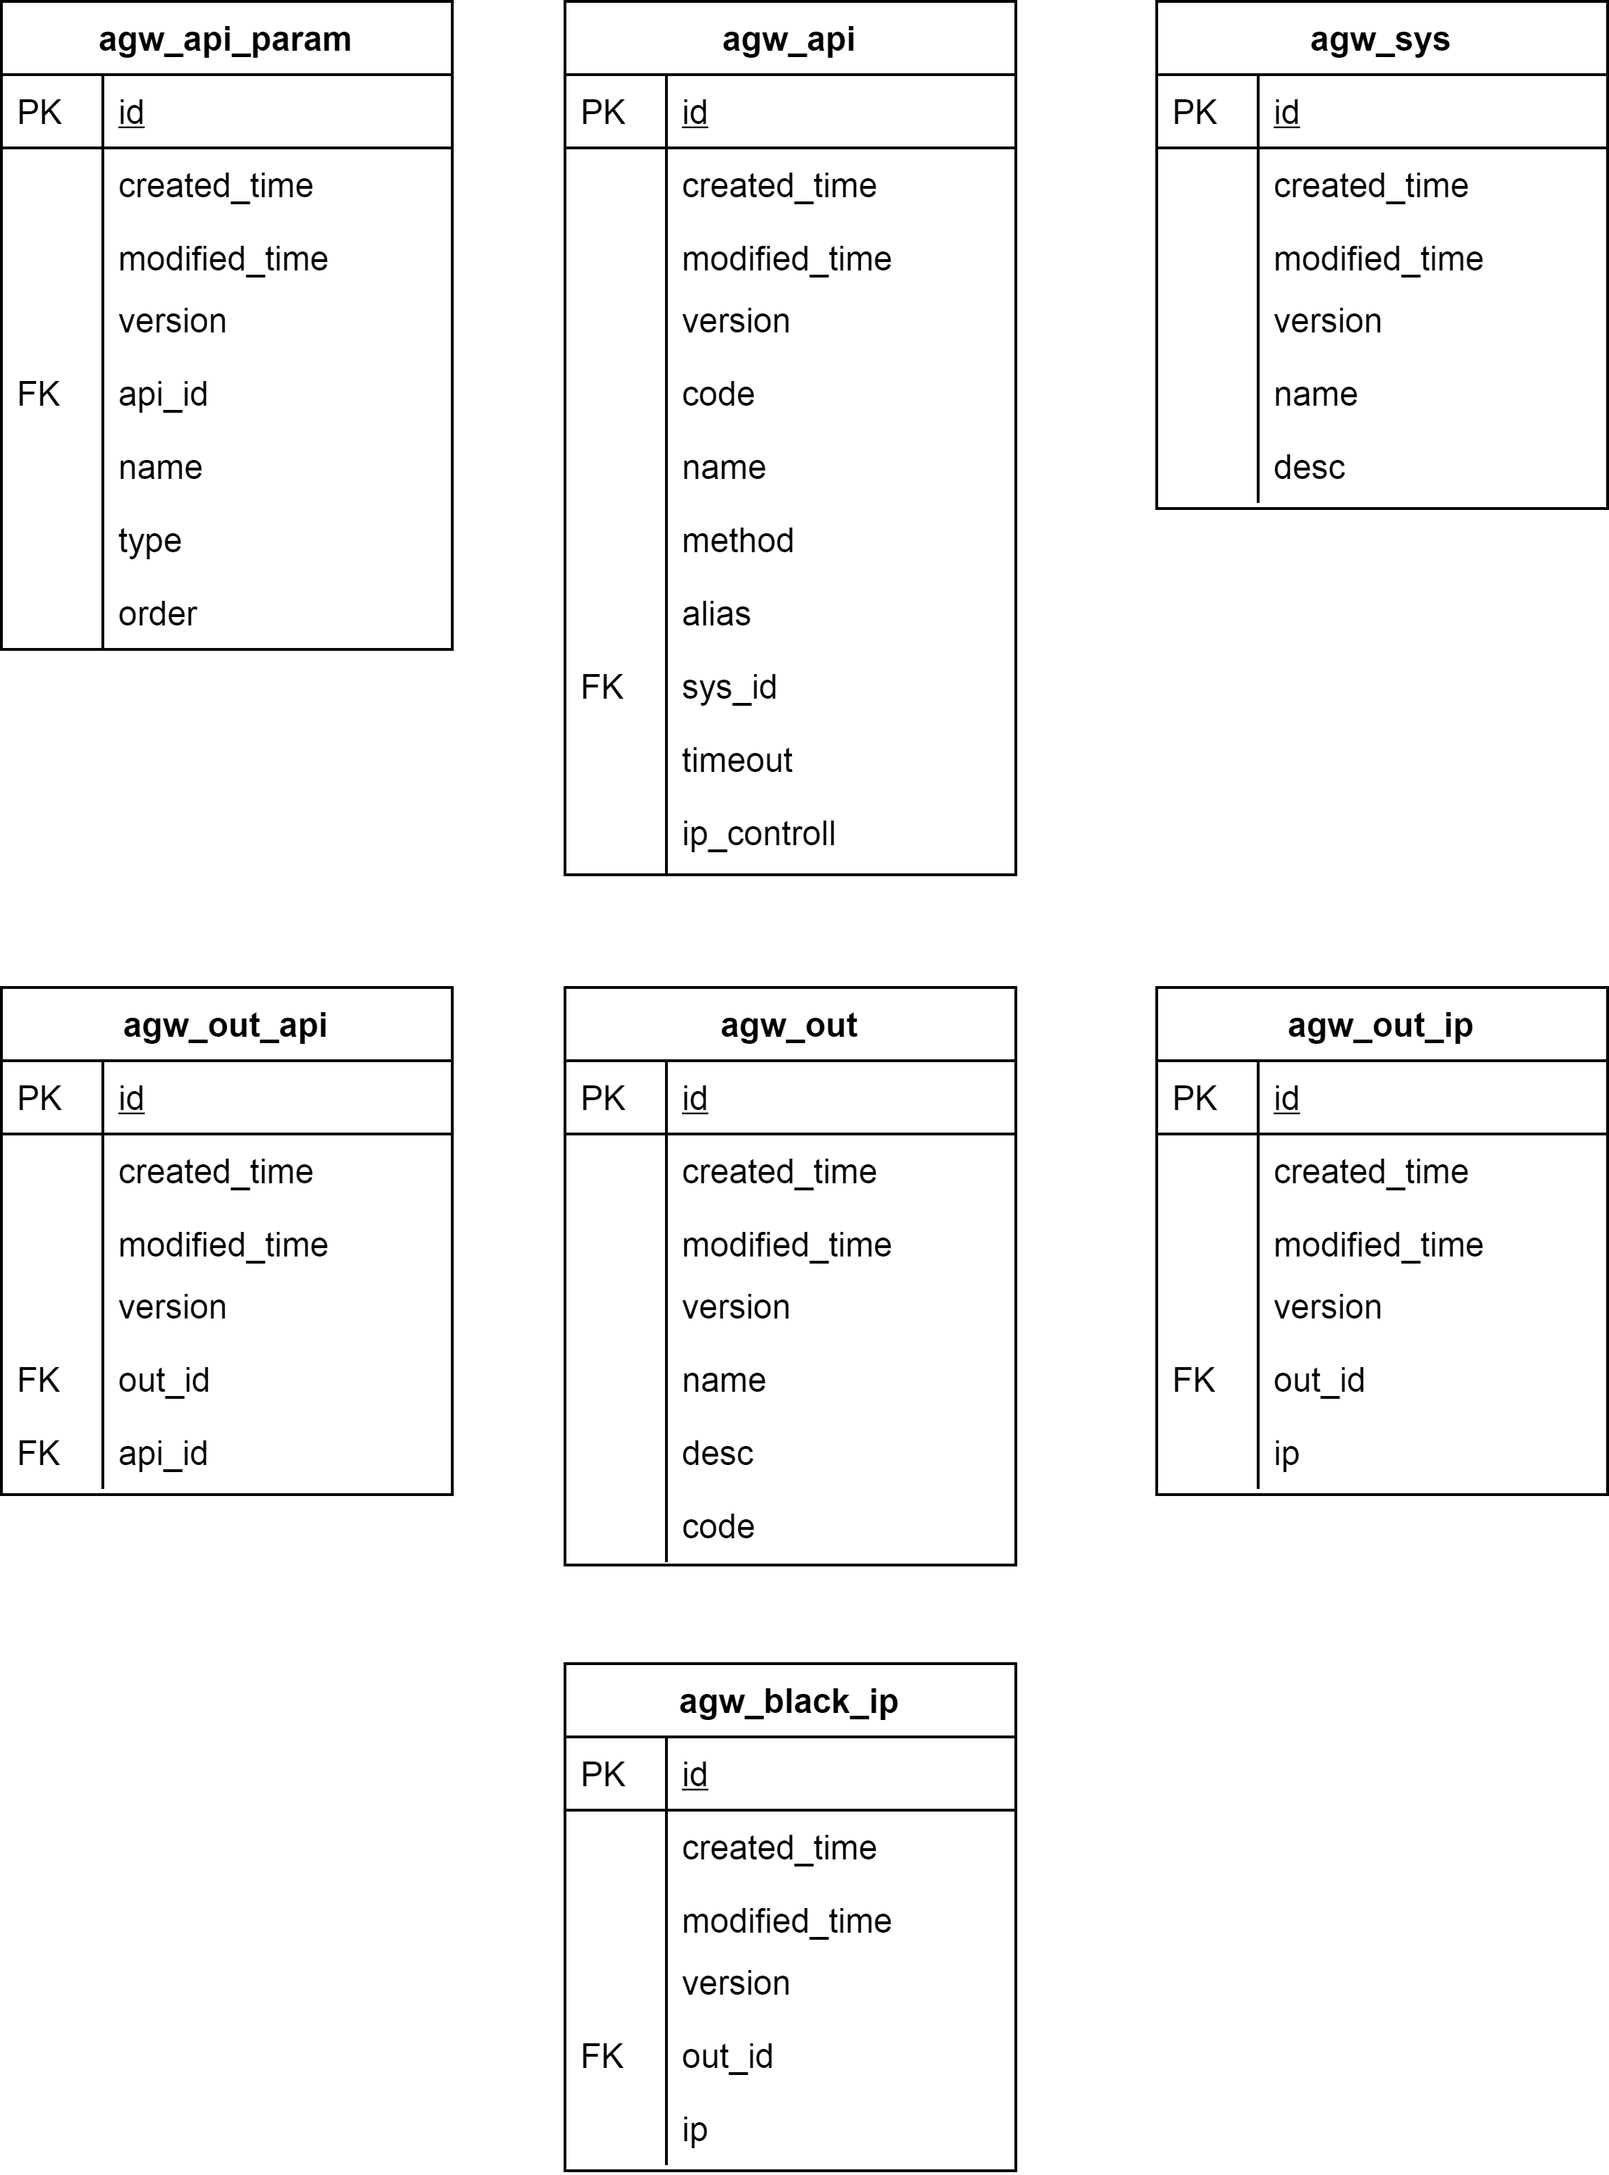
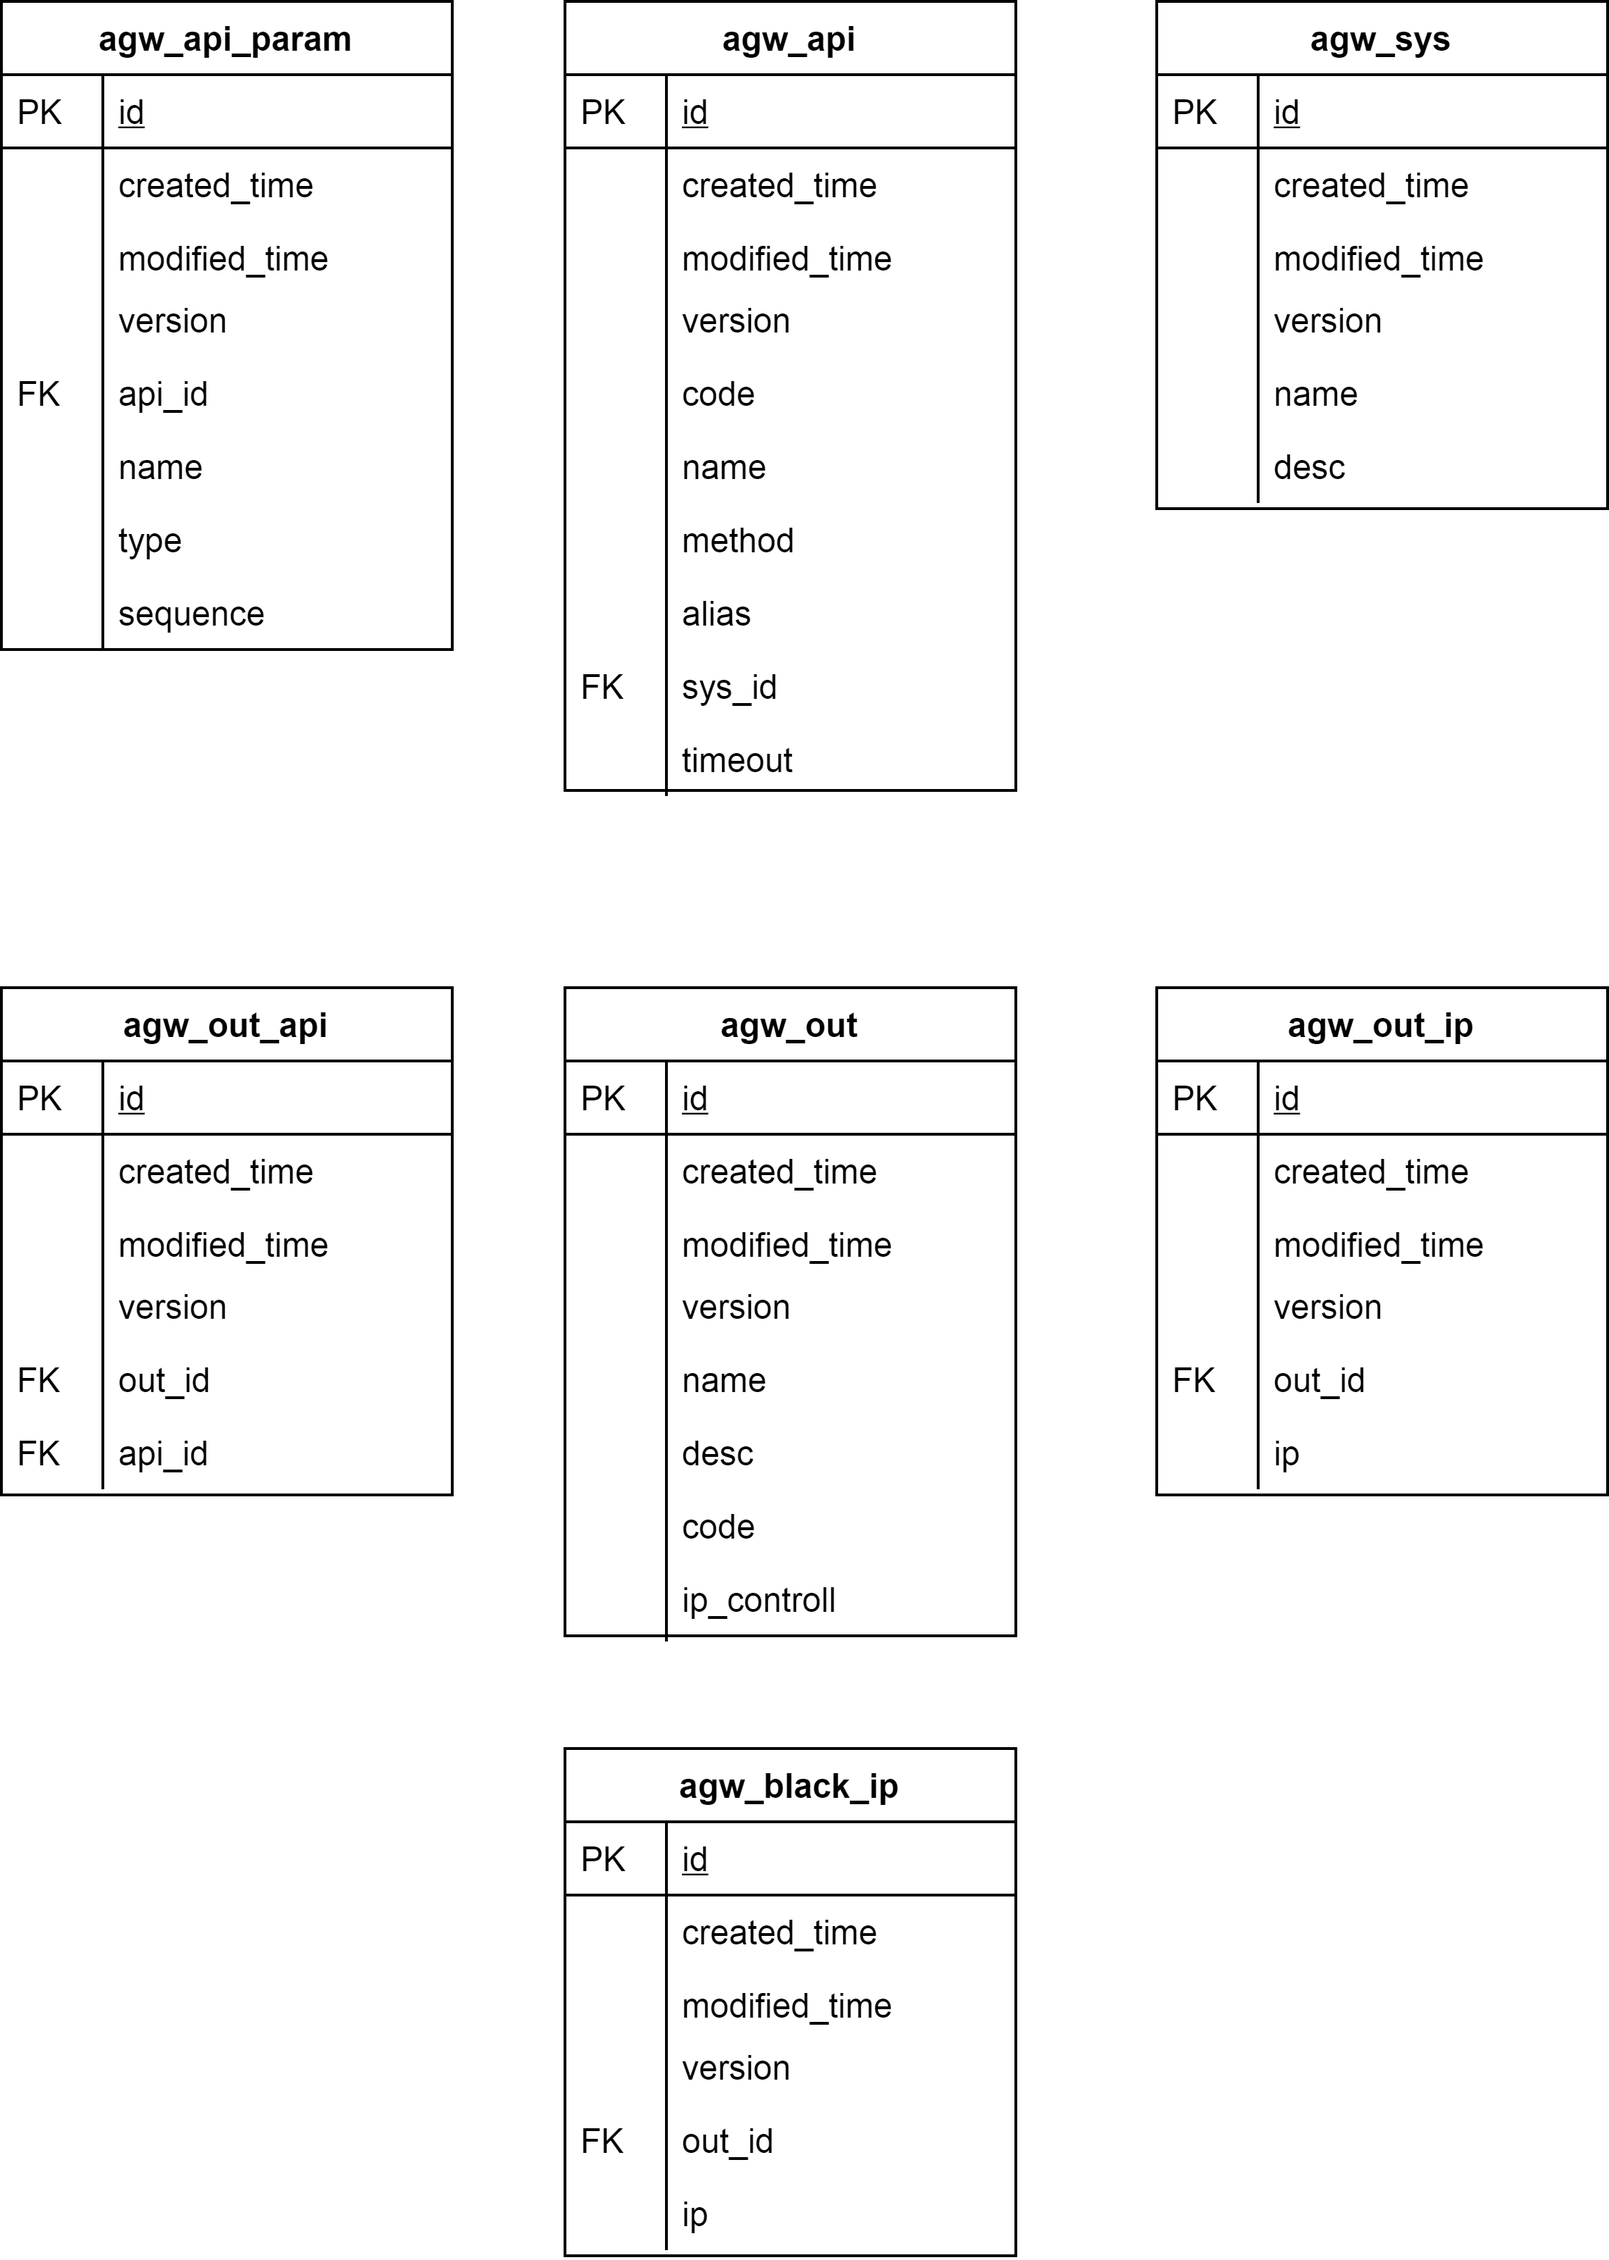
Site updated: 2020-04-13 21:20:42

diff --git a/2020/04/07/APIGateway设计文档/index.html b/2020/04/07/APIGateway设计文档/index.html
@@ -30,7 +30,7 @@
 <meta property="og:image" content="http://dachengxi.github.com/2020/04/07/APIGateway%E8%AE%BE%E8%AE%A1%E6%96%87%E6%A1%A3/APIGateway%E6%95%B4%E4%BD%93%E6%9E%B6%E6%9E%84.png">
 <meta property="og:image" content="http://dachengxi.github.com/2020/04/07/APIGateway%E8%AE%BE%E8%AE%A1%E6%96%87%E6%A1%A3/APIGateway%E6%95%B0%E6%8D%AE%E5%BA%93%E8%AE%BE%E8%AE%A1.png">
 <meta property="article:published_time" content="2020-04-07T15:49:05.000Z">
-<meta property="article:modified_time" content="2020-04-10T14:45:15.964Z">
+<meta property="article:modified_time" content="2020-04-13T13:20:18.688Z">
 <meta property="article:author" content="dachengxi">
 <meta property="article:tag" content="APIGateway">
 <meta name="twitter:card" content="summary">
@@ -400,14 +400,6 @@
 <td>1000</td>
 <td>超时时间，毫秒</td>
 </tr>
-<tr>
-<td>ip_control</td>
-<td>tinyint(4)</td>
-<td>Y</td>
-<td></td>
-<td>0</td>
-<td>是否白名单控制 0-否 1-是</td>
-</tr>
 </tbody></table>
 <h2 id="agw-api-param"><a href="#agw-api-param" class="headerlink" title="agw_api_param"></a>agw_api_param</h2><table>
 <thead>
@@ -477,7 +469,7 @@
 <td>参数类型</td>
 </tr>
 <tr>
-<td>order</td>
+<td>sequence</td>
 <td>smallint(6)</td>
 <td>N</td>
 <td></td>
@@ -611,6 +603,14 @@
 <td></td>
 <td></td>
 <td>外部系统唯一标识</td>
+</tr>
+<tr>
+<td>ip_control</td>
+<td>tinyint(4)</td>
+<td>Y</td>
+<td></td>
+<td>0</td>
+<td>是否白名单控制 0-否 1-是</td>
 </tr>
 </tbody></table>
 <h2 id="agw-out-api"><a href="#agw-out-api" class="headerlink" title="agw_out_api"></a>agw_out_api</h2><table>

diff --git a/2017/02/18/Dubbo中SPI扩展机制详解/index.html b/2017/02/18/Dubbo中SPI扩展机制详解/index.html
@@ -30,9 +30,9 @@
 <meta property="article:published_time" content="2017-02-18T15:13:34.000Z">
 <meta property="article:modified_time" content="2017-04-19T16:23:40.000Z">
 <meta property="article:author" content="dachengxi">
+<meta property="article:tag" content="dubbo源码">
 <meta property="article:tag" content="dubbo SPI">
 <meta property="article:tag" content="dubbo 扩展机制">
-<meta property="article:tag" content="dubbo源码">
 <meta name="twitter:card" content="summary">
 
 <link rel="canonical" href="http://dachengxi.github.com/2017/02/18/Dubbo%E4%B8%ADSPI%E6%89%A9%E5%B1%95%E6%9C%BA%E5%88%B6%E8%AF%A6%E8%A7%A3/">
@@ -416,9 +416,9 @@
 
       <footer class="post-footer">
           <div class="post-tags">
+              <a href="/tags/dubbo%E6%BA%90%E7%A0%81/" rel="tag"># dubbo源码</a>
               <a href="/tags/dubbo-SPI/" rel="tag"># dubbo SPI</a>
               <a href="/tags/dubbo-%E6%89%A9%E5%B1%95%E6%9C%BA%E5%88%B6/" rel="tag"># dubbo 扩展机制</a>
-              <a href="/tags/dubbo%E6%BA%90%E7%A0%81/" rel="tag"># dubbo源码</a>
           </div>
 
         

diff --git a/2019/02/20/Dubbo中SPI源码解析/index.html b/2019/02/20/Dubbo中SPI源码解析/index.html
@@ -30,9 +30,9 @@
 <meta property="article:published_time" content="2019-02-20T12:15:34.000Z">
 <meta property="article:modified_time" content="2019-02-23T03:21:27.000Z">
 <meta property="article:author" content="dachengxi">
+<meta property="article:tag" content="dubbo源码">
 <meta property="article:tag" content="dubbo SPI">
 <meta property="article:tag" content="dubbo 扩展机制">
-<meta property="article:tag" content="dubbo源码">
 <meta name="twitter:card" content="summary">
 
 <link rel="canonical" href="http://dachengxi.github.com/2019/02/20/Dubbo%E4%B8%ADSPI%E6%BA%90%E7%A0%81%E8%A7%A3%E6%9E%90/">
@@ -454,9 +454,9 @@
 
       <footer class="post-footer">
           <div class="post-tags">
+              <a href="/tags/dubbo%E6%BA%90%E7%A0%81/" rel="tag"># dubbo源码</a>
               <a href="/tags/dubbo-SPI/" rel="tag"># dubbo SPI</a>
               <a href="/tags/dubbo-%E6%89%A9%E5%B1%95%E6%9C%BA%E5%88%B6/" rel="tag"># dubbo 扩展机制</a>
-              <a href="/tags/dubbo%E6%BA%90%E7%A0%81/" rel="tag"># dubbo源码</a>
           </div>
 
         

diff --git a/2020/03/19/Dubbo架构简单理解/index.html b/2020/03/19/Dubbo架构简单理解/index.html
@@ -33,8 +33,8 @@
 <meta property="article:published_time" content="2020-03-19T14:32:11.000Z">
 <meta property="article:modified_time" content="2020-03-19T16:13:17.056Z">
 <meta property="article:author" content="dachengxi">
-<meta property="article:tag" content="dubbo架构">
 <meta property="article:tag" content="dubbo">
+<meta property="article:tag" content="dubbo架构">
 <meta name="twitter:card" content="summary">
 <meta name="twitter:image" content="http://dachengxi.github.com/2020/03/19/Dubbo%E6%9E%B6%E6%9E%84%E7%AE%80%E5%8D%95%E7%90%86%E8%A7%A3/dubbo-architecture.jpg">
 
@@ -320,8 +320,8 @@
 
       <footer class="post-footer">
           <div class="post-tags">
-              <a href="/tags/dubbo%E6%9E%B6%E6%9E%84/" rel="tag"># dubbo架构</a>
               <a href="/tags/dubbo/" rel="tag"># dubbo</a>
+              <a href="/tags/dubbo%E6%9E%B6%E6%9E%84/" rel="tag"># dubbo架构</a>
           </div>
 
         

diff --git a/2017/04/02/Dubbo中Directory解析/index.html b/2017/04/02/Dubbo中Directory解析/index.html
@@ -30,8 +30,8 @@
 <meta property="article:published_time" content="2017-04-02T15:38:55.000Z">
 <meta property="article:modified_time" content="2017-04-05T09:41:04.000Z">
 <meta property="article:author" content="dachengxi">
-<meta property="article:tag" content="dubbo源码">
 <meta property="article:tag" content="dubbo Directory">
+<meta property="article:tag" content="dubbo源码">
 <meta name="twitter:card" content="summary">
 
 <link rel="canonical" href="http://dachengxi.github.com/2017/04/02/Dubbo%E4%B8%ADDirectory%E8%A7%A3%E6%9E%90/">
@@ -310,8 +310,8 @@
 
       <footer class="post-footer">
           <div class="post-tags">
-              <a href="/tags/dubbo%E6%BA%90%E7%A0%81/" rel="tag"># dubbo源码</a>
               <a href="/tags/dubbo-Directory/" rel="tag"># dubbo Directory</a>
+              <a href="/tags/dubbo%E6%BA%90%E7%A0%81/" rel="tag"># dubbo源码</a>
           </div>
 
         

diff --git a/css/main.css b/css/main.css
@@ -1198,7 +1198,7 @@ pre .javascript .function {
 }
 .links-of-author a::before,
 .links-of-author span.exturl::before {
-  background: #e09677;
+  background: #c3dd87;
   border-radius: 50%;
   content: ' ';
   display: inline-block;
